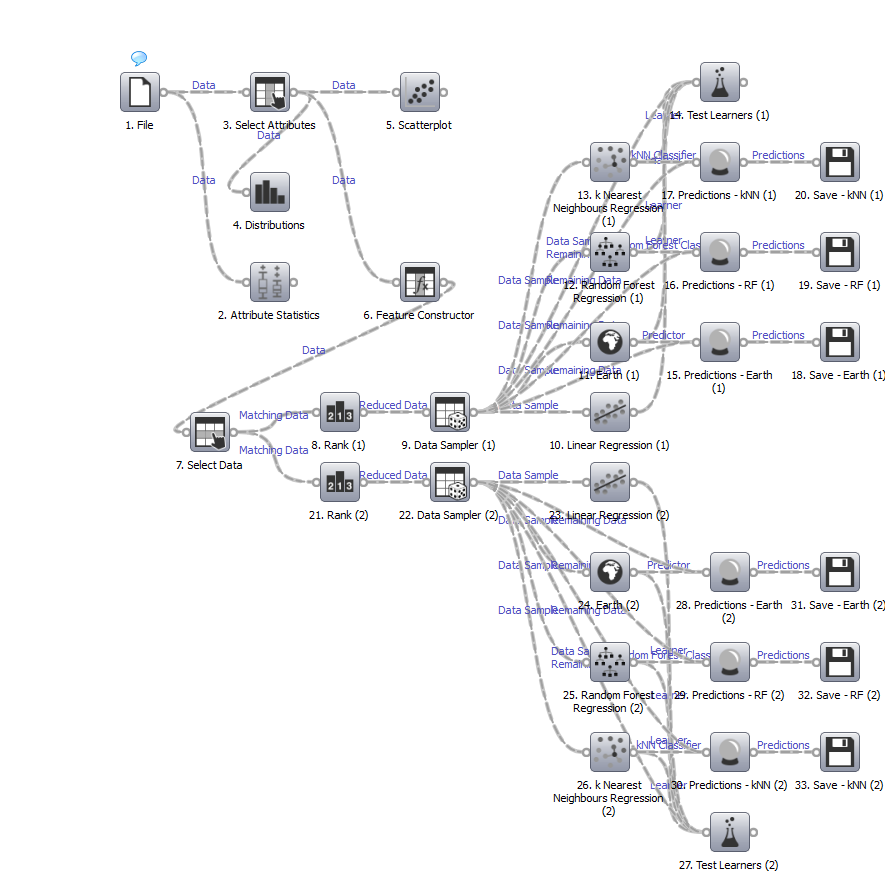
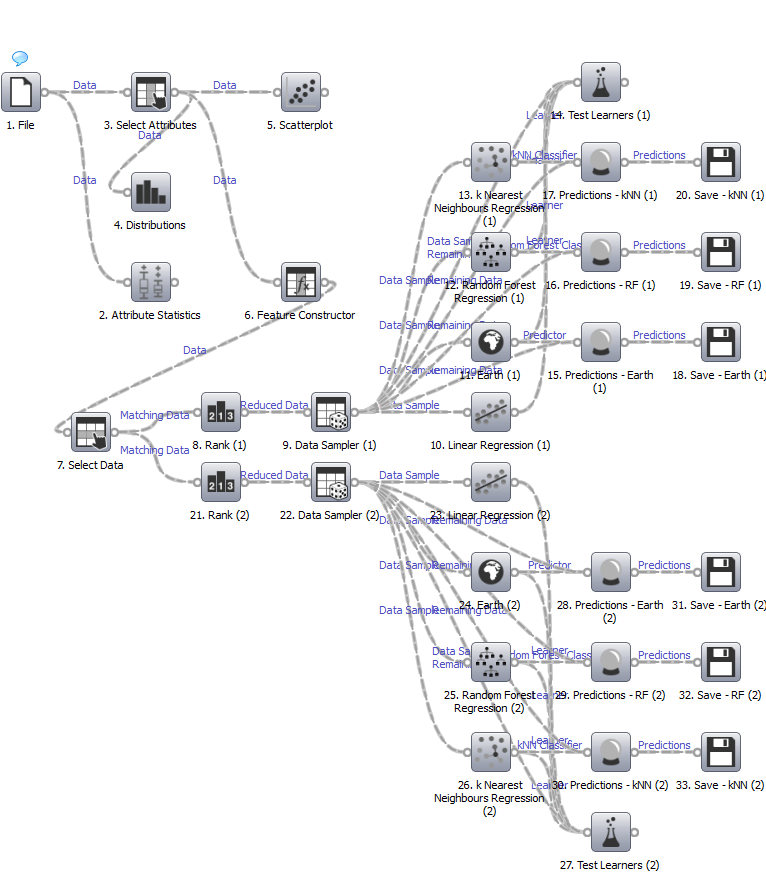
Improved pictures formatting.

Changed region(s): [[0.0, 0.0619, 1.0, 1.0]]

diff --git a/diploma/src/latex/DiplomaProject-Adaptor.tex b/diploma/src/latex/DiplomaProject-Adaptor.tex
@@ -189,7 +189,7 @@
 \subsubsection{Интерактивное окружение проведения экспериментов}
 Для удобной работы с инструментарием рекомендуется использовать интерпретатор \textit{ipython}~\cite{ipython}. Он предоставляет графическую оболочку языка \textit{Python}, которая позволяет строить графики в том же окне, сохранять сессии использования интерпретатора и имеет хорошую поддержку автодополнения команд и документации. На рисунке~\ref{img:besselj} приведён снимок экрана этой графической оболочки с встроенным графиком.
 
-\begin{figure}[H]
+\begin{figure}[tbp]
     \center{\includegraphics[width=0.6\linewidth]{besselj}}
     \caption{Cнимок экрана графической оболочки \textit{ipython} с встроенным графиком.}
     \label{img:besselj}
@@ -202,7 +202,7 @@
 
 Конвейер имеет такой вид для всех трёх серий экспериментов. Далее мы рассмотрим части конвейера по отдельности и опишем каждый компонент, используемый в схеме анализа данных, изображённой на указанном выше рисунке.
 
-\begin{figure}[H]
+\begin{figure}[tbp]
     \center{\includegraphics[scale=0.375]{series30}}
     \caption{Конвейер обработки данных в системе \textit{Orange}.}
     \label{img:series30}
@@ -210,7 +210,7 @@
 
 Первая часть конвейера "--- предварительная обработка данных перед построением модели. Она изображена на рисунке~\ref{img:series30-1}.
 
-\begin{figure}[H]
+\begin{figure}[tbp]
     \center{\includegraphics[scale=1]{series30-1}}
     \caption{Конвейер обработки данных в системе \textit{Orange}. Часть 1 "--- предварительная обработка.}
     \label{img:series30-1}
@@ -218,7 +218,7 @@
 
 Обработка данных в системе начинается с чтения входных данных в формате \textit{CSV} из файла "--- за это отвечает компонент \texttt{1.\,File}, находящийся в левом верхнем углу схемы. Отчёт по этому компоненту представлен на рисунке \ref{img:1-File}. Опишем формат входного файла.
 
-\begin{figure}[H]
+\begin{figure}[tbp]
     \center{\includegraphics[scale=0.75]{1-File}}
     \caption{Компонент \texttt{1.\,File}. Входные данные в файле \textit{CSV}.}
     \label{img:1-File}
@@ -231,18 +231,19 @@
         \begin{figure}[H]
             \fontsize{10}{12}
             \begin{verbatim}
-            id  datetime    time    program_name    compiler    base_opt    optimization_flags  width   height  cpu_name    cpu_mhz cpu_cache   apic ... vme
-            5104..bd16    2013-04-17 22:25:29 0.0041661978    symm    gcc -O2 None    64  64  Intel(R) Xeon(R) CPU... 2666.76 6144    False ...    False
-            5104..cc6d    2013-04-17 22:25:14 1.3440570831    symm    gcc -O2 None    256 256 Intel(R) Xeon(R) CPU... 2666.76 6144    False ...    False
-            5104..d50b    2013-04-17 22:24:57 0.121064496 symm    gcc -O2 None    128 128 Intel(R) Xeon(R) CPU... 2666.76 6144    False ...    False
+            id  datetime    time    program_name    compiler    base_opt    optimization_flags  width   height  cpu_name    cpu_mhz cpu_cache ... vme
+            5104..bd16    2013-04-17 22:25:29 0.0041661978    symm    gcc -O2 None    64  64  Intel(R) Xeon(R) CPU... 2666.76 6144    False ...
+            5104..cc6d    2013-04-17 22:25:14 1.3440570831    symm    gcc -O2 None    256 256 Intel(R) Xeon(R) CPU... 2666.76 6144    False ...
+            5104..d50b    2013-04-17 22:24:57 0.121064496 symm    gcc -O2 None    128 128 Intel(R) Xeon(R) CPU... 2666.76 6144    False ...
             \end{verbatim}
             \caption{Отрывок входного файла.}
             \label{img:series.csv}
         \end{figure}
     \end{minipage}
 }
+\clearpage
 
-Итак, первая строка файла -- названия свойств. \texttt{id} "--- уникальный идентификатор эксперимента, \texttt{datetime} "--- время его проведения в GMT, \texttt{time} "--- время исполнения программы, \texttt{program_name} "--- название программы, \texttt{compiler} "--- название используемого компилятора, \texttt{base_opt} "--- базовый уровень оптимизации программы компилятором, \texttt{optimization_flags} "--- дополнительные настройки оптимизации, \texttt{width} "--- число столбцов в обрабатываемой матрице, \texttt{height} "--- число строк в обрабатываемой матрице, \texttt{cpu_name} "--- название процессора, на котором исполнялась программа, \texttt{cpu_mhz} "--- частота процессора, \texttt{cpu_cache} "--- объём кэша третьего уровня. Все остальные свойства, начиная с \texttt{apic} и заканчивая \texttt{vme} "--- двоичные свойства наличия у процессора поддержки определённой возможности, такой как, например, набора инструкций \textit{SSE}.
+Итак, первая строка файла "--- названия свойств. \texttt{id} "--- уникальный идентификатор эксперимента, \texttt{datetime} "--- время его проведения в GMT, \texttt{time} "--- время исполнения программы, \texttt{program_name} "--- название программы, \texttt{compiler} "--- название используемого компилятора, \texttt{base_opt} "--- базовый уровень оптимизации программы компилятором, \texttt{optimization_flags} "--- дополнительные настройки оптимизации, \texttt{width} "--- число столбцов в обрабатываемой матрице, \texttt{height} "--- число строк в обрабатываемой матрице, \texttt{cpu_name} "--- название процессора, на котором исполнялась программа, \texttt{cpu_mhz} "--- частота процессора, \texttt{cpu_cache} "--- объём кэша третьего уровня. Все остальные свойства, начиная с \texttt{apic} и заканчивая \texttt{vme} "--- двоичные свойства наличия у процессора поддержки определённой возможности, такой как, например, набора инструкций \textit{SSE}.
 
 Отметим, что пунктирные линии на схеме обозначают передачу данных из одного компонента обработки данных в другой. Схема представляет собой дерево с корнем в узле \texttt{1.\,File}, причём данные передаются от корня к листьям. Таким образом, из узлов, которые не имеют дочерних, информация дальше не передаётся. Если у узла несколько дочерних узлов, данные передаются от родителя каждому ребёнку данного узла.
 
@@ -250,7 +251,7 @@
 
 Компонент \texttt{3.\,Select~Attributes} (рисунок \ref{img:3-Select-Attributes}) применяется с целью установления структуры набора данных "--- в нём определяется, какие свойства экспериментов являются исходными данными для моделирования (признаками), а какие "--- выходными данными (предсказанными значениями). В данном случае все свойства экспериментов, кроме свойства \texttt{time} (время исполнения программы), являются признаками. Свойство \texttt{time} предсказывается моделью.
 
-\begin{figure}[H]
+\begin{figure}[tbp]
     \center{\includegraphics[scale=0.75]{3-Select-Attributes}}
     \caption{Компонент \texttt{3.\,Select~Attributes}. Определение структуры входных данных.}
     \label{img:3-Select-Attributes}
@@ -264,7 +265,7 @@
 
 Компонент \texttt{7.\,Select~Data} (рисунок \ref{img:7-Select-Data}) может использоваться для фильтрации данных по различным признакам. Например, он может быть использован для удаления из набора данных всех экспериментов, для которых измеренное время исполнения оказалось менее 0,001 с вследствие артефактов измерения. Такая фильтрация может увеличить качество предсказания, поскольку результаты, которые очевидно являются шумом, удаляются из набора данных. Однако, в конечных версиях рассмотренных моделей данный компонент не был задействован, поскольку он требует тонкой настройки и снижает степень автоматизации моделирования.
 
-\begin{figure}[H]
+\begin{figure}[tbp]
     \center{\includegraphics[scale=0.75]{7-Select-Data}}
     \caption{Компонент \texttt{7.\,Select~Data}. Выбор данных из набора.}
     \label{img:7-Select-Data}
@@ -274,7 +275,7 @@
 
 Опишем обе ветви конвейера, начиная с части, отвечающей за ранжирование признаков и выборку объектов. Эта часть схемы изображена на рисунке~\ref{img:series30-2}.
 
-\begin{figure}[H]
+\begin{figure}[tbp]
     \center{\includegraphics[scale=1]{series30-2}}
     \caption{Конвейер обработки данных в системе \textit{Orange}. Часть 2 "--- ранжирование признаков и выборка объектов.}
     \label{img:series30-2}
@@ -282,7 +283,7 @@
 
 Компонент \texttt{8.\,Rank~(1)} (рисунок \ref{img:8-Rank-1}) и его аналог \texttt{21.\,Rank~(2)}  выбирает $S$ наиболее значимых признаков набора данных, при этом $S = 1$ для компонента 8 и $S = 4$ или $S = 5$ для компонента 21. Выбор $S = 4$ или $S = 5$ зависит от результата работы алгоритма выделения важных признаков и для первой серии экспериментов $S = 4$, а для второй и третьей "--- $S = 5$. Согласно рассуждениям, приведённым ниже в разделе~\ref{choice-of-feature-ranking-algorithm}, в качестве алгоритма ранжирования признаков во всех случаях используется алгоритм \textit{Earth}.
 
-\begin{figure}[H]
+\begin{figure}[tbp]
     \center{\includegraphics[scale=0.75]{8-Rank-1}}
     \caption{Компонент \texttt{8.\,Rank~(1)}. Выбор признаков.}
     \label{img:8-Rank-1}
@@ -290,12 +291,12 @@
 
 Остановимся подробнее на выборе алгоритма ранжирования признаков.
 
-\paragraph{Алгоритм ранжирования признаков.}
+\paragraph{Алгоритм ранжирования признаков}
 \label{choice-of-feature-ranking-algorithm}
 
 В системе статистической обработки данных Orange доступны следующие алгоритмы ранжирования признаков модели: \textit{Relief~F, MSE, Earth Importance} и \textit{Random Forest Importance}. В ходе изучения третьей серии экспериментов были получены результаты ранжирования признаков, показанные на рисунке~\ref{img:ranking-full}.
 
-\begin{figure}[H]
+\begin{figure}[tbp]
     \center{\includegraphics[scale=0.75]{ranking-full}}
     \caption{Сравнение алгоритмов ранжирования признаков модели.}
     \label{img:ranking-full}
@@ -315,7 +316,7 @@
 
 Компоненты \texttt{9.\,Data~Sampler~(1)} и \texttt{22.\,Data~Sampler~(2)} производят случайный отбор 70\% данных из набора в учебный набор, а остальных 30\% "--- в проверочный набор данных. Это необходимо для проведения перекрёстной проверки, которая в данном случае является одно-проходной ввиду ограниченных ресурсов времени и невысокой степени автоматизации осуществления перекрёстной проверки в системе \textit{Orange}. При этом компонент 9 работает с моделью, построенной на основе единственного признака, который был оценён, как наиболее важный, компонентом 8. Компонент 22 работает с моделью на основе четырёх или пяти признаков, наиболее важных по результатам работы компонента 21. Далее мы не будем останавливаться на различиях моделей в ветвях (8--20) и (20--33).
 
-\begin{figure}[H]
+\begin{figure}[tbp]
     \center{\includegraphics[scale=0.75]{9-Data-Sampler-1}}
     \caption{Компонент \texttt{9.\,Data~Sampler~(1)}. Отбор объектов в обучающую и проверочную выборки.}
     \label{img:9-Data-Sampler-1}
@@ -325,7 +326,7 @@
 
 На рисунках~\ref{img:series30-3}~и~\ref{img:series30-4} представлены две последние части конвейера обработки данных в \textit{Orange}. Они полностью аналогичны и отличаются тем, что первая (описывающая компоненты~10--20) получает данные от компонента~9, а вторая (компоненты~23--33) "--- от компонента~22. Это данные, включающие в себя один признак эксперимента и несколько (четыре или пять) признаков эксперимента, соответственно.
 
-\begin{figure}[H]
+\begin{figure}[tbp]
     \center{\includegraphics[scale=1]{series30-3}}
     \caption{Конвейер обработки данных в системе \textit{Orange}. Часть 3 "--- построение простейшей модели.}
     \label{img:series30-3}
@@ -333,7 +334,7 @@
 
 Компоненты \texttt{10.\,Linear~Regression~(1)} и \texttt{23.\,Linear~Regression~(2)} строят модели линейной регрессии на основе экспериментальных данных. Эти модели являются образцовыми. Это значит, что качество результатов данных моделей является нижней границей для качества результатов любых других моделей. Поскольку линейная регрессия является простейшим предсказателем, рассмотрение моделей, которые дают результаты хуже, чем линейная регрессия, не имеет смысла. Модели из компонентов 10 и 23 передаются в компоненты 14 и 27 соответственно, где те сравниваются с другими предсказателями по нескольким метрикам (см. ниже).
 
-\begin{figure}[H]
+\begin{figure}[tbp]
     \center{\includegraphics[scale=1]{series30-4}}
     \caption{Конвейер обработки данных в системе \textit{Orange}. Часть 3 "--- построение более сложной модели.}
     \label{img:series30-4}
@@ -341,37 +342,37 @@
 
 Компоненты \texttt{11.\,Earth~(1), 12.\,Random~Forest Regression~(1), 13.\,k~Nearest~Neighbours Regression~(1)} и \texttt{24.\,Earth~(2), 25.~Random~Forest Regression~(2), 26.\,k~Nearest~Neighbours Regression~(2)} являются модулями построения предсказателей \textit{Earth, Random~Forest} и \textit{kNN} для ветвей (8--20) и (20--33) соответственно.
 
-\begin{figure}[H]
+\begin{figure}[tbp]
     \center{\includegraphics[scale=0.75]{11-Earth-1}}
     \caption{Компонент \texttt{11.\,Earth~(1)}. Предсказатель \textit{Earth} для модели с одним признаком.}
     \label{img:11-Earth-1}
 \end{figure}
 
-\begin{figure}[H]
+\begin{figure}[tbp]
     \center{\includegraphics[scale=0.75]{12-RF-1}}
     \caption{Компонент \texttt{12.\,Random~Forest~(1)}. Предсказатель \textit{Random~Forest} для модели с одним признаком.}
     \label{img:12-RF-1}
 \end{figure}
 
-\begin{figure}[H]
+\begin{figure}[tbp]
     \center{\includegraphics[scale=0.75]{13-kNN-1}}
     \caption{Компонент \texttt{13.\,kNN~(1)}. Предсказатель \textit{k~Nearest~Neighbours} для модели с одним признаком.}
     \label{img:13-kNN-1}
 \end{figure}
 
-\begin{figure}[H]
+\begin{figure}[tbp]
     \center{\includegraphics[scale=0.75]{24-Earth-2}}
     \caption{Компонент \texttt{24.\,Earth~(2)}. Предсказатель \textit{Earth} для модели с четырьмя признаками.}
     \label{img:24-Earth-2}
 \end{figure}
 
-\begin{figure}[H]
+\begin{figure}[tbp]
     \center{\includegraphics[scale=0.75]{25-RF-2}}
     \caption{Компонент \texttt{25.\,Random~Forest~(2)}. Предсказатель \textit{Random~Forest} для модели с четырьмя признаками.}
     \label{img:25-RF-2}
 \end{figure}
 
-\begin{figure}[H]
+\begin{figure}[tbp]
     \center{\includegraphics[scale=0.75]{26-kNN-2}}
     \caption{Компонент \texttt{26.\,kNN~(2)}. Предсказатель \textit{k~Nearest~Neighbours} для модели с четырьмя признаками.}
     \label{img:26-kNN-2}
@@ -379,13 +380,13 @@
 
 После обучения предсказателей их параметры передаются в компоненты сравнения качества результатов \texttt{14.\,Test~Learners~(1)} и \texttt{27.\,Test~Learners~(2)}. Кроме этого, они используются для построения предсказаний в компонентах \texttt{15.\,Predictions - Earth~(1), 16.\,Predictions - RF~(1), 17.\,Predictions - kNN~(1)} и {28.\,Predictions - Earth~(2), 29.\,Predictions - RF~(2), 30.\,Predictions - kNN~(2)} соответсвенно.
 
-\begin{figure}[H]
+\begin{figure}[tbp]
     \center{\includegraphics[scale=0.75]{14-Test-Learners-1}}
     \caption{Компонент \texttt{26.\,Test~Learners~(2)}. Сравнение предсказателей для модели с одним признаком.}
     \label{img:14-Test-Learners-1}
 \end{figure}
 
-\begin{figure}[H]
+\begin{figure}[tbp]
     \center{\includegraphics[scale=0.75]{27-Test-Learners-2}}
     \caption{Компонент \texttt{27.\,Test~Learners~(2)}. Сравнение предсказателей для модели с четырьмя признаками.}
     \label{img:27-Test-Learners-2}

diff --git a/diploma/src/latex/DiplomaProject.tex b/diploma/src/latex/DiplomaProject.tex
@@ -28,8 +28,6 @@
 \DeclareCaptionLabelFormat{plain}{Рисунок #2}
 \captionsetup{labelformat=plain,labelsep=endash}
 \restoresymbol{CAPTION}{l@addto@macro}
-% Уменьшение пропуска после изображения
-\addtolength{\belowcaptionskip}{-1cm}
 
 % Кириллица в математическом режиме{
 \DeclareSymbolFont{cyrillic}{T2A}{cmr}{m}{n}
